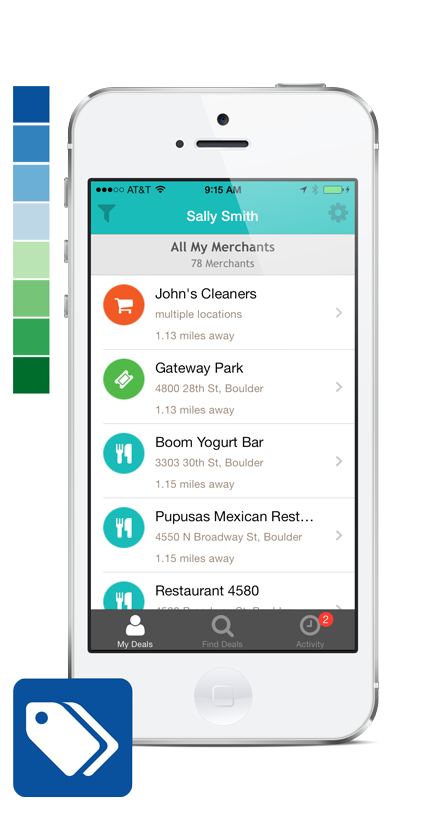
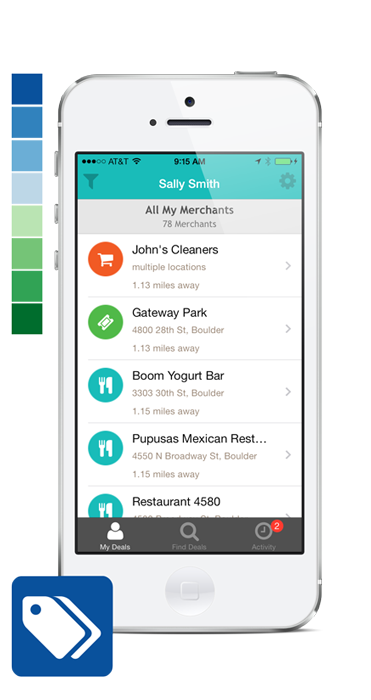
more tweaks -- smaller images

diff --git a/src/main/resources/com/talool/website/marketing/panel/HomepagePanel.html b/src/main/resources/com/talool/website/marketing/panel/HomepagePanel.html
@@ -55,11 +55,11 @@
 		</table>
 	</div>
 	<div class="hero">
-		<img src="/img/homepage/homepage_hero_checkout.png" width="1200" height="500"/>
-		<img src="/img/homepage/chart_horizon.png" width="1200" height="75"/>
+		<img src="/img/homepage/homepage_hero_checkout.png" width="1000"/>
+		<img src="/img/homepage/chart_horizon.png" width="1000"/>
 		<h2>Powerful Tools and Analytics</h2>
 		<p>
-		Talool is not just a mobile app, it's a platform that can help connect you with existing customers 
+		Talool is not just a mobile app, it is a platform that can help connect you with existing customers 
 		and those waiting to be discovered.  Talool learns customers' habits: what they like, what they 
 		don't like, where they like to shop most and when.  This powerful information allows merchants to 
 		customize their communications to the right audience and identify prospects. With Talool, there's no 
@@ -71,7 +71,7 @@
 		</div>
 	</div>
 	<div class="hero">
-		<img src="/img/homepage/homepage_hero_connecting_teal.png" width="1200" height="500"/>
+		<img src="/img/homepage/homepage_hero_connecting_teal.png" width="1000"/>
 		<h2>Rethink Fundraising</h2>
 		<p>
 		If you're selling coupon books as part of a fundraiser, you probably feel like you're starting over 

diff --git a/src/main/webapp/css/marketing/hp.css b/src/main/webapp/css/marketing/hp.css
@@ -115,7 +115,7 @@
 .hp {
 	padding: 0;
 	margin: 0px auto;
-	width: 1200px;
+	width: 1000px;
 	background-color: white;
 	font-size:16px;
 }
@@ -127,8 +127,7 @@
 }
 .hp .appDesc 
 {
-	padding: 10px 500px 10px 60px;
-	height: 720px;
+	padding: 10px 470px 50px 60px;
 	background: url(/img/homepage/hpbg.png) repeat-x right bottom;
 	position: relative;
 	overflow: hidden;
@@ -147,8 +146,7 @@
 .hp .appDesc.fundraising,
 .hp .appDesc.tools
 {
-	height: 800px;
-	padding-right: 500px;
+	padding-right: 380px;
 }
 
 .hp .appDesc.fundraising .phone
@@ -158,8 +156,7 @@
 
 .hp .appDesc.whiteLabel
 {
-	height: 920px;
-	padding-right: 500px;
+	padding-right: 430px;
 }
 .hp .appDesc.whiteLabel .phone
 {
@@ -192,7 +189,7 @@
 
 .hp .appicons
 {
-	margin: 20px 0 0;
+	margin: 20px 0 100px;
 }
 .hp .appicons img
 {
@@ -272,7 +269,7 @@
 
 .hp table.pricing
 {
-	width: 1100px;
+	width: 900px;
 	margin: 25px 50px 10px;
 	border-collapse:collapse; 
 	border-spacing: 0;
@@ -327,6 +324,7 @@
 {
 	margin-left: 20px;
 	margin-bottom: 30px;
+	font-size: 13px;
 }
 .hp .appDesc dd
 {

diff --git a/src/main/resources/com/talool/website/marketing/panel/WhiteLabelPanel.html b/src/main/resources/com/talool/website/marketing/panel/WhiteLabelPanel.html
@@ -2,7 +2,7 @@
 <wicket:panel xmlns:wicket="http://wicket.apache.org">
 	<div class="appDesc whiteLabel">
 		<div class="phone"></div>
-		<h2>White Label: Your Brand Powered By Talool</h2>
+		<h2>Your Brand Powered By Talool</h2>
 		<p>
 			Talool makes it easy to get all the benefits of our platform, and still promote your brand.  You give us an app icon, 
 			color palette, and a few images, and we'll take care of the rest.  When we're done, you'll have a licensed version of our apps 
